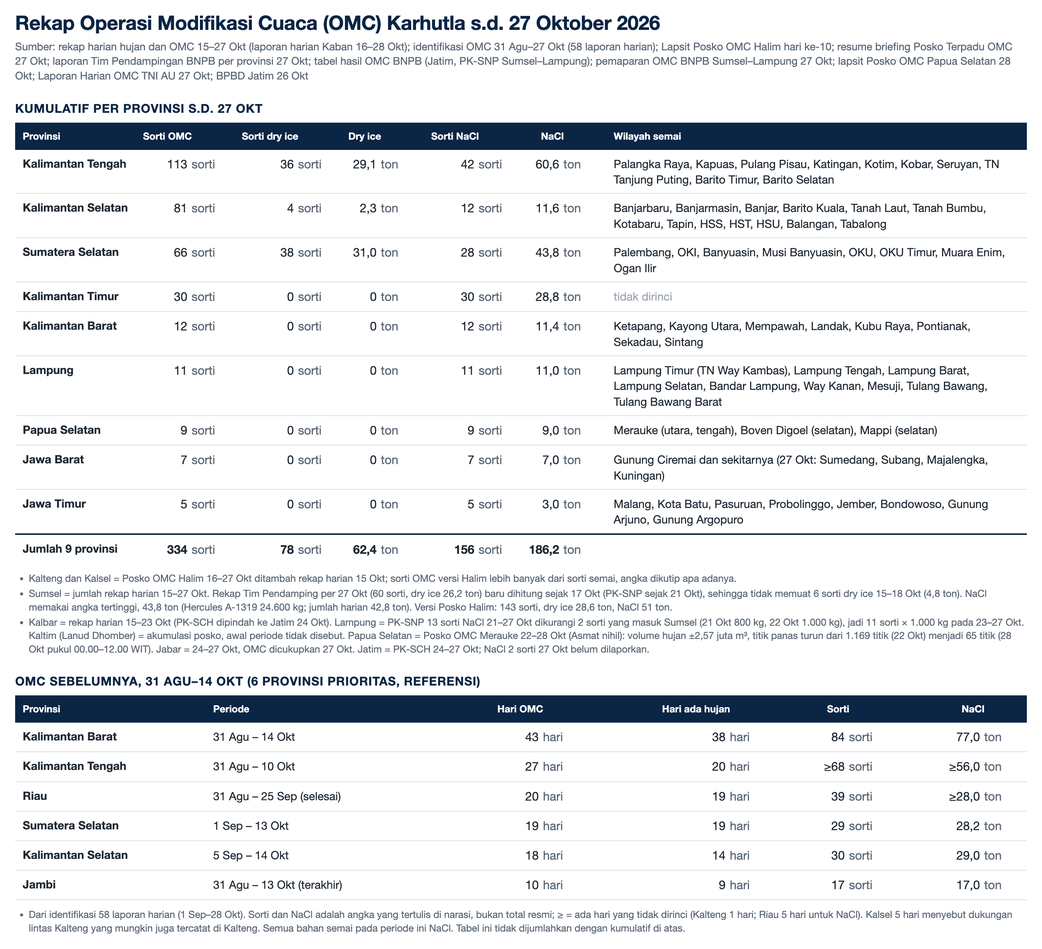
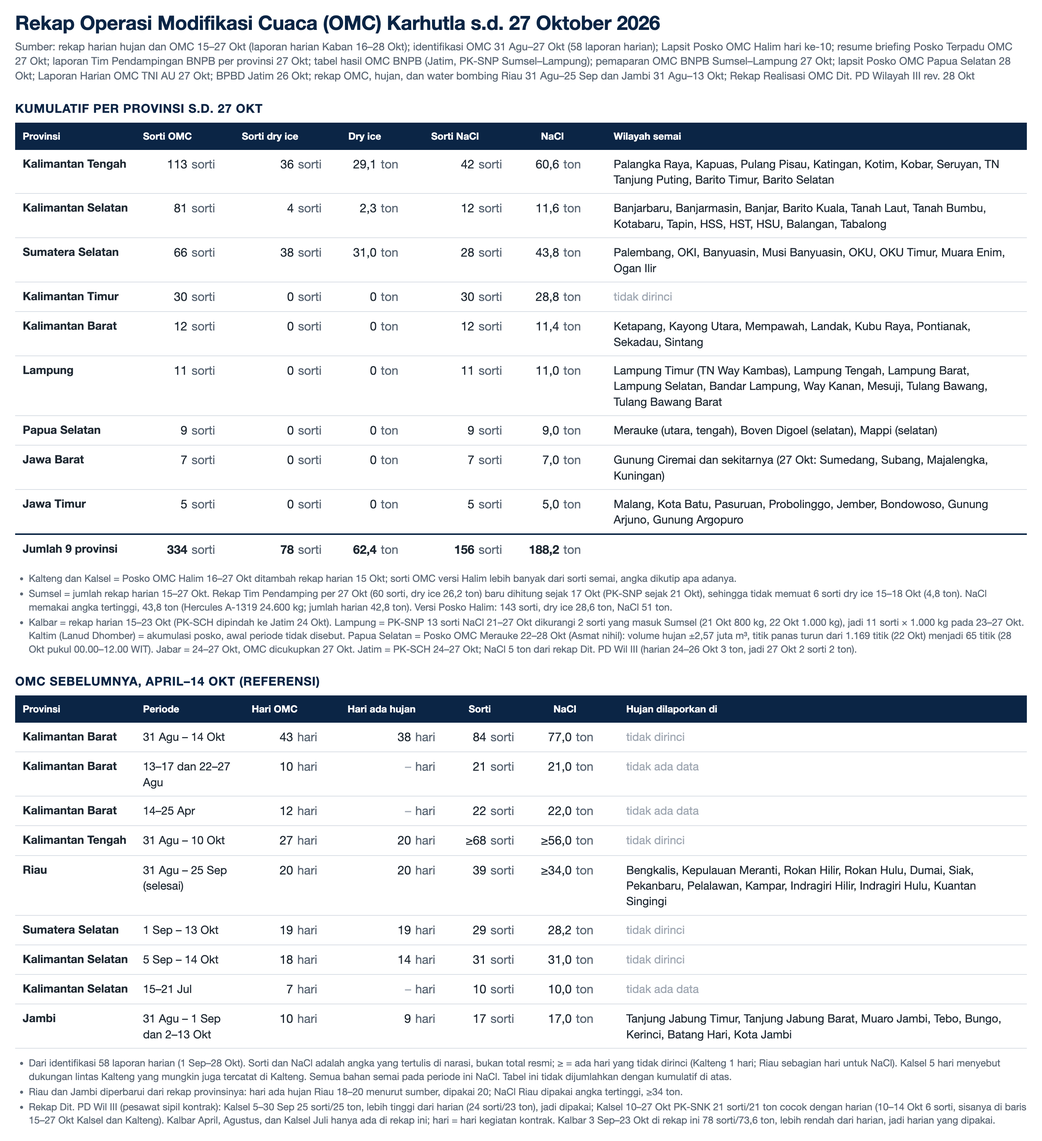
docs(omc): gabung rekap Riau, Jambi, dan PDW III ke tabel, gambar, dan teks WA

diff --git a/data/laporan-bnpb/omc-2026-10-28/tabel-omc.html b/data/laporan-bnpb/omc-2026-10-28/tabel-omc.html
@@ -41,7 +41,7 @@
 <body>
 <div class="kertas">
   <h1>Rekap Operasi Modifikasi Cuaca (OMC) Karhutla s.d. 27 Oktober 2026</h1>
-  <p class="sub">Sumber: rekap harian hujan dan OMC 15–27 Okt (laporan harian Kaban 16–28 Okt); identifikasi OMC 31 Agu–27 Okt (58 laporan harian); Lapsit Posko OMC Halim hari ke-10; resume briefing Posko Terpadu OMC 27 Okt; laporan Tim Pendampingan BNPB per provinsi 27 Okt; tabel hasil OMC BNPB (Jatim, PK-SNP Sumsel–Lampung); pemaparan OMC BNPB Sumsel–Lampung 27 Okt; lapsit Posko OMC Papua Selatan 28 Okt; Laporan Harian OMC TNI AU 27 Okt; BPBD Jatim 26 Okt</p>
+  <p class="sub">Sumber: rekap harian hujan dan OMC 15–27 Okt (laporan harian Kaban 16–28 Okt); identifikasi OMC 31 Agu–27 Okt (58 laporan harian); Lapsit Posko OMC Halim hari ke-10; resume briefing Posko Terpadu OMC 27 Okt; laporan Tim Pendampingan BNPB per provinsi 27 Okt; tabel hasil OMC BNPB (Jatim, PK-SNP Sumsel–Lampung); pemaparan OMC BNPB Sumsel–Lampung 27 Okt; lapsit Posko OMC Papua Selatan 28 Okt; Laporan Harian OMC TNI AU 27 Okt; BPBD Jatim 26 Okt; rekap OMC, hujan, dan water bombing Riau 31 Agu–25 Sep dan Jambi 31 Agu–13 Okt; Rekap Realisasi OMC Dit. PD Wilayah III rev. 28 Okt</p>
 
   <h2>Kumulatif per provinsi s.d. 27 Okt</h2>
   <table class="kumulatif">
@@ -57,32 +57,37 @@
       <tr><td class="prov">Lampung</td><td class="n so">11</td><td class="n so">0</td><td class="n t">0</td><td class="n so">11</td><td class="n t">11,0</td><td>Lampung Timur (TN Way Kambas), Lampung Tengah, Lampung Barat, Lampung Selatan, Bandar Lampung, Way Kanan, Mesuji, Tulang Bawang, Tulang Bawang Barat</td></tr>
       <tr><td class="prov">Papua Selatan</td><td class="n so">9</td><td class="n so">0</td><td class="n t">0</td><td class="n so">9</td><td class="n t">9,0</td><td>Merauke (utara, tengah), Boven Digoel (selatan), Mappi (selatan)</td></tr>
       <tr><td class="prov">Jawa Barat</td><td class="n so">7</td><td class="n so">0</td><td class="n t">0</td><td class="n so">7</td><td class="n t">7,0</td><td>Gunung Ciremai dan sekitarnya (27 Okt: Sumedang, Subang, Majalengka, Kuningan)</td></tr>
-      <tr><td class="prov">Jawa Timur</td><td class="n so">5</td><td class="n so">0</td><td class="n t">0</td><td class="n so">5</td><td class="n t">3,0</td><td>Malang, Kota Batu, Pasuruan, Probolinggo, Jember, Bondowoso, Gunung Arjuno, Gunung Argopuro</td></tr>
-      <tr class="jumlah"><td>Jumlah 9 provinsi</td><td class="n so">334</td><td class="n so">78</td><td class="n t">62,4</td><td class="n so">156</td><td class="n t">186,2</td><td></td></tr>
+      <tr><td class="prov">Jawa Timur</td><td class="n so">5</td><td class="n so">0</td><td class="n t">0</td><td class="n so">5</td><td class="n t">5,0</td><td>Malang, Kota Batu, Pasuruan, Probolinggo, Jember, Bondowoso, Gunung Arjuno, Gunung Argopuro</td></tr>
+      <tr class="jumlah"><td>Jumlah 9 provinsi</td><td class="n so">334</td><td class="n so">78</td><td class="n t">62,4</td><td class="n so">156</td><td class="n t">188,2</td><td></td></tr>
     </tbody>
   </table>
   <ul class="catatan">
     <li>Kalteng dan Kalsel = Posko OMC Halim 16–27 Okt ditambah rekap harian 15 Okt; sorti OMC versi Halim lebih banyak dari sorti semai, angka dikutip apa adanya.</li>
     <li>Sumsel = jumlah rekap harian 15–27 Okt. Rekap Tim Pendamping per 27 Okt (60 sorti, dry ice 26,2 ton) baru dihitung sejak 17 Okt (PK-SNP sejak 21 Okt), sehingga tidak memuat 6 sorti dry ice 15–18 Okt (4,8 ton). NaCl memakai angka tertinggi, 43,8 ton (Hercules A-1319 24.600 kg; jumlah harian 42,8 ton). Versi Posko Halim: 143 sorti, dry ice 28,6 ton, NaCl 51 ton.</li>
-    <li>Kalbar = rekap harian 15–23 Okt (PK-SCH dipindah ke Jatim 24 Okt). Lampung = PK-SNP 13 sorti NaCl 21–27 Okt dikurangi 2 sorti yang masuk Sumsel (21 Okt 800 kg, 22 Okt 1.000 kg), jadi 11 sorti × 1.000 kg pada 23–27 Okt. Kaltim (Lanud Dhomber) = akumulasi posko, awal periode tidak disebut. Papua Selatan = Posko OMC Merauke 22–28 Okt (Asmat nihil): volume hujan ±2,57 juta m³, titik panas turun dari 1.169 titik (22 Okt) menjadi 65 titik (28 Okt pukul 00.00–12.00 WIT). Jabar = 24–27 Okt, OMC dicukupkan 27 Okt. Jatim = PK-SCH 24–27 Okt; NaCl 2 sorti 27 Okt belum dilaporkan.</li>
+    <li>Kalbar = rekap harian 15–23 Okt (PK-SCH dipindah ke Jatim 24 Okt). Lampung = PK-SNP 13 sorti NaCl 21–27 Okt dikurangi 2 sorti yang masuk Sumsel (21 Okt 800 kg, 22 Okt 1.000 kg), jadi 11 sorti × 1.000 kg pada 23–27 Okt. Kaltim (Lanud Dhomber) = akumulasi posko, awal periode tidak disebut. Papua Selatan = Posko OMC Merauke 22–28 Okt (Asmat nihil): volume hujan ±2,57 juta m³, titik panas turun dari 1.169 titik (22 Okt) menjadi 65 titik (28 Okt pukul 00.00–12.00 WIT). Jabar = 24–27 Okt, OMC dicukupkan 27 Okt. Jatim = PK-SCH 24–27 Okt; NaCl 5 ton dari rekap Dit. PD Wil III (harian 24–26 Okt 3 ton, jadi 27 Okt 2 sorti 2 ton).</li>
   </ul>
 
-  <h2>OMC sebelumnya, 31 Agu–14 Okt (6 provinsi prioritas, referensi)</h2>
+  <h2>OMC sebelumnya, April–14 Okt (referensi)</h2>
   <table class="kumulatif">
     <thead>
-      <tr><th>Provinsi</th><th>Periode</th><th class="n">Hari OMC</th><th class="n">Hari ada hujan</th><th class="n">Sorti</th><th class="n">NaCl</th></tr>
+      <tr><th>Provinsi</th><th>Periode</th><th class="n">Hari OMC</th><th class="n">Hari ada hujan</th><th class="n">Sorti</th><th class="n">NaCl</th><th>Hujan dilaporkan di</th></tr>
     </thead>
     <tbody>
-      <tr><td class="prov">Kalimantan Barat</td><td>31 Agu – 14 Okt</td><td class="n hr">43</td><td class="n hr">38</td><td class="n so">84</td><td class="n t">77,0</td></tr>
-      <tr><td class="prov">Kalimantan Tengah</td><td>31 Agu – 10 Okt</td><td class="n hr">27</td><td class="n hr">20</td><td class="n so">≥68</td><td class="n t">≥56,0</td></tr>
-      <tr><td class="prov">Riau</td><td>31 Agu – 25 Sep (selesai)</td><td class="n hr">20</td><td class="n hr">19</td><td class="n so">39</td><td class="n t">≥28,0</td></tr>
-      <tr><td class="prov">Sumatera Selatan</td><td>1 Sep – 13 Okt</td><td class="n hr">19</td><td class="n hr">19</td><td class="n so">29</td><td class="n t">28,2</td></tr>
-      <tr><td class="prov">Kalimantan Selatan</td><td>5 Sep – 14 Okt</td><td class="n hr">18</td><td class="n hr">14</td><td class="n so">30</td><td class="n t">29,0</td></tr>
-      <tr><td class="prov">Jambi</td><td>31 Agu – 13 Okt (terakhir)</td><td class="n hr">10</td><td class="n hr">9</td><td class="n so">17</td><td class="n t">17,0</td></tr>
+      <tr><td class="prov">Kalimantan Barat</td><td>31 Agu – 14 Okt</td><td class="n hr">43</td><td class="n hr">38</td><td class="n so">84</td><td class="n t">77,0</td><td class="kosong">tidak dirinci</td></tr>
+      <tr><td class="prov">Kalimantan Barat</td><td>13–17 dan 22–27 Agu</td><td class="n hr">10</td><td class="n hr kosong">–</td><td class="n so">21</td><td class="n t">21,0</td><td class="kosong">tidak ada data</td></tr>
+      <tr><td class="prov">Kalimantan Barat</td><td>14–25 Apr</td><td class="n hr">12</td><td class="n hr kosong">–</td><td class="n so">22</td><td class="n t">22,0</td><td class="kosong">tidak ada data</td></tr>
+      <tr><td class="prov">Kalimantan Tengah</td><td>31 Agu – 10 Okt</td><td class="n hr">27</td><td class="n hr">20</td><td class="n so">≥68</td><td class="n t">≥56,0</td><td class="kosong">tidak dirinci</td></tr>
+      <tr><td class="prov">Riau</td><td>31 Agu – 25 Sep (selesai)</td><td class="n hr">20</td><td class="n hr">20</td><td class="n so">39</td><td class="n t">≥34,0</td><td>Bengkalis, Kepulauan Meranti, Rokan Hilir, Rokan Hulu, Dumai, Siak, Pekanbaru, Pelalawan, Kampar, Indragiri Hilir, Indragiri Hulu, Kuantan Singingi</td></tr>
+      <tr><td class="prov">Sumatera Selatan</td><td>1 Sep – 13 Okt</td><td class="n hr">19</td><td class="n hr">19</td><td class="n so">29</td><td class="n t">28,2</td><td class="kosong">tidak dirinci</td></tr>
+      <tr><td class="prov">Kalimantan Selatan</td><td>5 Sep – 14 Okt</td><td class="n hr">18</td><td class="n hr">14</td><td class="n so">31</td><td class="n t">31,0</td><td class="kosong">tidak dirinci</td></tr>
+      <tr><td class="prov">Kalimantan Selatan</td><td>15–21 Jul</td><td class="n hr">7</td><td class="n hr kosong">–</td><td class="n so">10</td><td class="n t">10,0</td><td class="kosong">tidak ada data</td></tr>
+      <tr><td class="prov">Jambi</td><td>31 Agu – 1 Sep dan 2–13 Okt</td><td class="n hr">10</td><td class="n hr">9</td><td class="n so">17</td><td class="n t">17,0</td><td>Tanjung Jabung Timur, Tanjung Jabung Barat, Muaro Jambi, Tebo, Bungo, Kerinci, Batang Hari, Kota Jambi</td></tr>
     </tbody>
   </table>
   <ul class="catatan">
-    <li>Dari identifikasi 58 laporan harian (1 Sep–28 Okt). Sorti dan NaCl adalah angka yang tertulis di narasi, bukan total resmi; ≥ = ada hari yang tidak dirinci (Kalteng 1 hari; Riau 5 hari untuk NaCl). Kalsel 5 hari menyebut dukungan lintas Kalteng yang mungkin juga tercatat di Kalteng. Semua bahan semai pada periode ini NaCl. Tabel ini tidak dijumlahkan dengan kumulatif di atas.</li>
+    <li>Dari identifikasi 58 laporan harian (1 Sep–28 Okt). Sorti dan NaCl adalah angka yang tertulis di narasi, bukan total resmi; ≥ = ada hari yang tidak dirinci (Kalteng 1 hari; Riau sebagian hari untuk NaCl). Kalsel 5 hari menyebut dukungan lintas Kalteng yang mungkin juga tercatat di Kalteng. Semua bahan semai pada periode ini NaCl. Tabel ini tidak dijumlahkan dengan kumulatif di atas.</li>
+    <li>Riau dan Jambi diperbarui dari rekap provinsinya: hari ada hujan Riau 18–20 menurut sumber, dipakai 20; NaCl Riau dipakai angka tertinggi, ≥34 ton.</li>
+    <li>Rekap Dit. PD Wil III (pesawat sipil kontrak): Kalsel 5–30 Sep 25 sorti/25 ton, lebih tinggi dari harian (24 sorti/23 ton), jadi dipakai; Kalsel 10–27 Okt PK-SNK 21 sorti/21 ton cocok dengan harian (10–14 Okt 6 sorti, sisanya di baris 15–27 Okt Kalsel dan Kalteng). Kalbar April, Agustus, dan Kalsel Juli hanya ada di rekap ini; hari = hari kegiatan kontrak. Kalbar 3 Sep–23 Okt di rekap ini 78 sorti/73,6 ton, lebih rendah dari harian, jadi harian yang dipakai.</li>
   </ul>
 
   <h2>Rincian harian 15–27 Okt</h2>
@@ -184,7 +189,7 @@
       <tr><td class="tgl" rowspan="6">27 Okt</td><td class="prov">Sumsel</td><td class="n so">8</td><td class="n kg">1.700</td><td class="n kg">9.200</td><td>dry ice: timur–tenggara Palembang; NaCl: OKI, Banyuasin, Musi Banyuasin, OKU, Muara Enim, Ogan Ilir</td><td><span class="pil h">HUJAN</span>sedang–lebat di OKI dan OKU Timur; ringan–sedang di Cengal dan Pangkalan Jerambah (OKI), Pusat Konservasi Gajah (Banyuasin). Penakar BMKG 07.01–16.00 WIB: Pangkalan Lampam (OKI) 36 mm, Pagar Alam 7,4 mm, Banyuasin I 4 mm. PM2,5 Palembang 115 → 68,8 µg/m³, jarak pandang membaik hingga 7 km</td></tr>
       <tr><td class="prov">Kalteng–Kalsel</td><td class="n so">12</td><td class="n kg">2.100</td><td class="n kg">13.200</td><td>dry ice: Banjarbaru, Banjarmasin, Palangka Raya; NaCl: Katingan, Kotim, Kobar, Seruyan (TN Tanjung Puting), Kapuas, Pulang Pisau, Palangka Raya, Barito Kuala, Tanah Laut, Tanah Bumbu, Kotabaru, Banjar, HSS, HST, HSU, Balangan, Tabalong</td><td><span class="pil h">HUJAN</span>ringan–lebat (radar) di Katingan, Palangka Raya, Pulang Pisau, Kotim, Kapuas; ringan–sedang di Gunung Mas, Seruyan; hujan juga di Kobar, Sukamara, Murung Raya, Barito Utara; ringan–sedang di Kotabaru, Tanah Bumbu, Banjarmasin, Banjarbaru, Barito Kuala, Tanah Laut, Banjar, Tapin, HSS, HST, HSU, Tabalong, Balangan. PM2,5 Banjarbaru turun 14,6% saat semai dry ice, jarak pandang Syamsudin Noor 1,5 → 5 km</td></tr>
       <tr><td class="prov">Jabar</td><td class="n so">1</td><td class="n kg">0</td><td class="n kg">1.000</td><td>Sumedang, Subang, Majalengka, Kuningan, Gunung Ciremai</td><td><span class="pil h">HUJAN</span>ringan–sedang di Gunung Ciremai; radar BMKG: ringan–sangat lebat di hampir seluruh Jabar. OMC dicukupkan</td></tr>
-      <tr><td class="prov">Jatim</td><td class="n so">2</td><td class="n kg">0</td><td class="n kg kosong">–</td><td>Bondowoso, Jember, Gunung Argopuro; Kota Malang, Kab. Malang, Kota Batu, Gunung Arjuno</td><td><span class="pil h">HUJAN</span>ringan–sedang di Jombang, Bondowoso, Mojokerto, Jember, Madiun, Nganjuk, Tuban, Bojonegoro, Malang, timur Pulau Madura; Surabaya pada malam hari</td></tr>
+      <tr><td class="prov">Jatim</td><td class="n so">2</td><td class="n kg">0</td><td class="n kg">2.000</td><td>Bondowoso, Jember, Gunung Argopuro; Kota Malang, Kab. Malang, Kota Batu, Gunung Arjuno</td><td><span class="pil h">HUJAN</span>ringan–sedang di Jombang, Bondowoso, Mojokerto, Jember, Madiun, Nganjuk, Tuban, Bojonegoro, Malang, timur Pulau Madura; Surabaya pada malam hari</td></tr>
       <tr><td class="prov">Lampung</td><td class="n so">2</td><td class="n kg">0</td><td class="n kg">2.000</td><td>Lampung Timur, TN Way Kambas, Lampung Selatan; Mesuji, Tulang Bawang, Tulang Bawang Barat, Lampung Tengah</td><td><span class="pil h">HUJAN</span>ringan di Lampung Selatan, Lampung Timur, Tulang Bawang Barat, Lampung Tengah</td></tr>
       <tr><td class="prov">Papua Selatan</td><td class="n so">2</td><td class="n kg">0</td><td class="n kg">2.000</td><td>Merauke, Mappi (sorti ke-2 penyemaian malam: Merauke)</td><td><span class="pil h">HUJAN</span>di utara Merauke mulai 17.00 WIT, meluas ke Boven Digoel dan Mappi, 2–3 jam setelah penyemaian</td></tr>
     </tbody>

diff --git a/data/laporan-bnpb/omc-2026-10-28/bagian-1.html b/data/laporan-bnpb/omc-2026-10-28/bagian-1.html
@@ -41,7 +41,7 @@
 <body>
 <div class="kertas">
   <h1>Rekap Operasi Modifikasi Cuaca (OMC) Karhutla s.d. 27 Oktober 2026</h1>
-  <p class="sub">Sumber: rekap harian hujan dan OMC 15–27 Okt (laporan harian Kaban 16–28 Okt); identifikasi OMC 31 Agu–27 Okt (58 laporan harian); Lapsit Posko OMC Halim hari ke-10; resume briefing Posko Terpadu OMC 27 Okt; laporan Tim Pendampingan BNPB per provinsi 27 Okt; tabel hasil OMC BNPB (Jatim, PK-SNP Sumsel–Lampung); pemaparan OMC BNPB Sumsel–Lampung 27 Okt; lapsit Posko OMC Papua Selatan 28 Okt; Laporan Harian OMC TNI AU 27 Okt; BPBD Jatim 26 Okt</p>
+  <p class="sub">Sumber: rekap harian hujan dan OMC 15–27 Okt (laporan harian Kaban 16–28 Okt); identifikasi OMC 31 Agu–27 Okt (58 laporan harian); Lapsit Posko OMC Halim hari ke-10; resume briefing Posko Terpadu OMC 27 Okt; laporan Tim Pendampingan BNPB per provinsi 27 Okt; tabel hasil OMC BNPB (Jatim, PK-SNP Sumsel–Lampung); pemaparan OMC BNPB Sumsel–Lampung 27 Okt; lapsit Posko OMC Papua Selatan 28 Okt; Laporan Harian OMC TNI AU 27 Okt; BPBD Jatim 26 Okt; rekap OMC, hujan, dan water bombing Riau 31 Agu–25 Sep dan Jambi 31 Agu–13 Okt; Rekap Realisasi OMC Dit. PD Wilayah III rev. 28 Okt</p>
 
   <h2>Kumulatif per provinsi s.d. 27 Okt</h2>
   <table class="kumulatif">
@@ -57,32 +57,37 @@
       <tr><td class="prov">Lampung</td><td class="n so">11</td><td class="n so">0</td><td class="n t">0</td><td class="n so">11</td><td class="n t">11,0</td><td>Lampung Timur (TN Way Kambas), Lampung Tengah, Lampung Barat, Lampung Selatan, Bandar Lampung, Way Kanan, Mesuji, Tulang Bawang, Tulang Bawang Barat</td></tr>
       <tr><td class="prov">Papua Selatan</td><td class="n so">9</td><td class="n so">0</td><td class="n t">0</td><td class="n so">9</td><td class="n t">9,0</td><td>Merauke (utara, tengah), Boven Digoel (selatan), Mappi (selatan)</td></tr>
       <tr><td class="prov">Jawa Barat</td><td class="n so">7</td><td class="n so">0</td><td class="n t">0</td><td class="n so">7</td><td class="n t">7,0</td><td>Gunung Ciremai dan sekitarnya (27 Okt: Sumedang, Subang, Majalengka, Kuningan)</td></tr>
-      <tr><td class="prov">Jawa Timur</td><td class="n so">5</td><td class="n so">0</td><td class="n t">0</td><td class="n so">5</td><td class="n t">3,0</td><td>Malang, Kota Batu, Pasuruan, Probolinggo, Jember, Bondowoso, Gunung Arjuno, Gunung Argopuro</td></tr>
-      <tr class="jumlah"><td>Jumlah 9 provinsi</td><td class="n so">334</td><td class="n so">78</td><td class="n t">62,4</td><td class="n so">156</td><td class="n t">186,2</td><td></td></tr>
+      <tr><td class="prov">Jawa Timur</td><td class="n so">5</td><td class="n so">0</td><td class="n t">0</td><td class="n so">5</td><td class="n t">5,0</td><td>Malang, Kota Batu, Pasuruan, Probolinggo, Jember, Bondowoso, Gunung Arjuno, Gunung Argopuro</td></tr>
+      <tr class="jumlah"><td>Jumlah 9 provinsi</td><td class="n so">334</td><td class="n so">78</td><td class="n t">62,4</td><td class="n so">156</td><td class="n t">188,2</td><td></td></tr>
     </tbody>
   </table>
   <ul class="catatan">
     <li>Kalteng dan Kalsel = Posko OMC Halim 16–27 Okt ditambah rekap harian 15 Okt; sorti OMC versi Halim lebih banyak dari sorti semai, angka dikutip apa adanya.</li>
     <li>Sumsel = jumlah rekap harian 15–27 Okt. Rekap Tim Pendamping per 27 Okt (60 sorti, dry ice 26,2 ton) baru dihitung sejak 17 Okt (PK-SNP sejak 21 Okt), sehingga tidak memuat 6 sorti dry ice 15–18 Okt (4,8 ton). NaCl memakai angka tertinggi, 43,8 ton (Hercules A-1319 24.600 kg; jumlah harian 42,8 ton). Versi Posko Halim: 143 sorti, dry ice 28,6 ton, NaCl 51 ton.</li>
-    <li>Kalbar = rekap harian 15–23 Okt (PK-SCH dipindah ke Jatim 24 Okt). Lampung = PK-SNP 13 sorti NaCl 21–27 Okt dikurangi 2 sorti yang masuk Sumsel (21 Okt 800 kg, 22 Okt 1.000 kg), jadi 11 sorti × 1.000 kg pada 23–27 Okt. Kaltim (Lanud Dhomber) = akumulasi posko, awal periode tidak disebut. Papua Selatan = Posko OMC Merauke 22–28 Okt (Asmat nihil): volume hujan ±2,57 juta m³, titik panas turun dari 1.169 titik (22 Okt) menjadi 65 titik (28 Okt pukul 00.00–12.00 WIT). Jabar = 24–27 Okt, OMC dicukupkan 27 Okt. Jatim = PK-SCH 24–27 Okt; NaCl 2 sorti 27 Okt belum dilaporkan.</li>
+    <li>Kalbar = rekap harian 15–23 Okt (PK-SCH dipindah ke Jatim 24 Okt). Lampung = PK-SNP 13 sorti NaCl 21–27 Okt dikurangi 2 sorti yang masuk Sumsel (21 Okt 800 kg, 22 Okt 1.000 kg), jadi 11 sorti × 1.000 kg pada 23–27 Okt. Kaltim (Lanud Dhomber) = akumulasi posko, awal periode tidak disebut. Papua Selatan = Posko OMC Merauke 22–28 Okt (Asmat nihil): volume hujan ±2,57 juta m³, titik panas turun dari 1.169 titik (22 Okt) menjadi 65 titik (28 Okt pukul 00.00–12.00 WIT). Jabar = 24–27 Okt, OMC dicukupkan 27 Okt. Jatim = PK-SCH 24–27 Okt; NaCl 5 ton dari rekap Dit. PD Wil III (harian 24–26 Okt 3 ton, jadi 27 Okt 2 sorti 2 ton).</li>
   </ul>
 
-  <h2>OMC sebelumnya, 31 Agu–14 Okt (6 provinsi prioritas, referensi)</h2>
+  <h2>OMC sebelumnya, April–14 Okt (referensi)</h2>
   <table class="kumulatif">
     <thead>
-      <tr><th>Provinsi</th><th>Periode</th><th class="n">Hari OMC</th><th class="n">Hari ada hujan</th><th class="n">Sorti</th><th class="n">NaCl</th></tr>
+      <tr><th>Provinsi</th><th>Periode</th><th class="n">Hari OMC</th><th class="n">Hari ada hujan</th><th class="n">Sorti</th><th class="n">NaCl</th><th>Hujan dilaporkan di</th></tr>
     </thead>
     <tbody>
-      <tr><td class="prov">Kalimantan Barat</td><td>31 Agu – 14 Okt</td><td class="n hr">43</td><td class="n hr">38</td><td class="n so">84</td><td class="n t">77,0</td></tr>
-      <tr><td class="prov">Kalimantan Tengah</td><td>31 Agu – 10 Okt</td><td class="n hr">27</td><td class="n hr">20</td><td class="n so">≥68</td><td class="n t">≥56,0</td></tr>
-      <tr><td class="prov">Riau</td><td>31 Agu – 25 Sep (selesai)</td><td class="n hr">20</td><td class="n hr">19</td><td class="n so">39</td><td class="n t">≥28,0</td></tr>
-      <tr><td class="prov">Sumatera Selatan</td><td>1 Sep – 13 Okt</td><td class="n hr">19</td><td class="n hr">19</td><td class="n so">29</td><td class="n t">28,2</td></tr>
-      <tr><td class="prov">Kalimantan Selatan</td><td>5 Sep – 14 Okt</td><td class="n hr">18</td><td class="n hr">14</td><td class="n so">30</td><td class="n t">29,0</td></tr>
-      <tr><td class="prov">Jambi</td><td>31 Agu – 13 Okt (terakhir)</td><td class="n hr">10</td><td class="n hr">9</td><td class="n so">17</td><td class="n t">17,0</td></tr>
+      <tr><td class="prov">Kalimantan Barat</td><td>31 Agu – 14 Okt</td><td class="n hr">43</td><td class="n hr">38</td><td class="n so">84</td><td class="n t">77,0</td><td class="kosong">tidak dirinci</td></tr>
+      <tr><td class="prov">Kalimantan Barat</td><td>13–17 dan 22–27 Agu</td><td class="n hr">10</td><td class="n hr kosong">–</td><td class="n so">21</td><td class="n t">21,0</td><td class="kosong">tidak ada data</td></tr>
+      <tr><td class="prov">Kalimantan Barat</td><td>14–25 Apr</td><td class="n hr">12</td><td class="n hr kosong">–</td><td class="n so">22</td><td class="n t">22,0</td><td class="kosong">tidak ada data</td></tr>
+      <tr><td class="prov">Kalimantan Tengah</td><td>31 Agu – 10 Okt</td><td class="n hr">27</td><td class="n hr">20</td><td class="n so">≥68</td><td class="n t">≥56,0</td><td class="kosong">tidak dirinci</td></tr>
+      <tr><td class="prov">Riau</td><td>31 Agu – 25 Sep (selesai)</td><td class="n hr">20</td><td class="n hr">20</td><td class="n so">39</td><td class="n t">≥34,0</td><td>Bengkalis, Kepulauan Meranti, Rokan Hilir, Rokan Hulu, Dumai, Siak, Pekanbaru, Pelalawan, Kampar, Indragiri Hilir, Indragiri Hulu, Kuantan Singingi</td></tr>
+      <tr><td class="prov">Sumatera Selatan</td><td>1 Sep – 13 Okt</td><td class="n hr">19</td><td class="n hr">19</td><td class="n so">29</td><td class="n t">28,2</td><td class="kosong">tidak dirinci</td></tr>
+      <tr><td class="prov">Kalimantan Selatan</td><td>5 Sep – 14 Okt</td><td class="n hr">18</td><td class="n hr">14</td><td class="n so">31</td><td class="n t">31,0</td><td class="kosong">tidak dirinci</td></tr>
+      <tr><td class="prov">Kalimantan Selatan</td><td>15–21 Jul</td><td class="n hr">7</td><td class="n hr kosong">–</td><td class="n so">10</td><td class="n t">10,0</td><td class="kosong">tidak ada data</td></tr>
+      <tr><td class="prov">Jambi</td><td>31 Agu – 1 Sep dan 2–13 Okt</td><td class="n hr">10</td><td class="n hr">9</td><td class="n so">17</td><td class="n t">17,0</td><td>Tanjung Jabung Timur, Tanjung Jabung Barat, Muaro Jambi, Tebo, Bungo, Kerinci, Batang Hari, Kota Jambi</td></tr>
     </tbody>
   </table>
   <ul class="catatan">
-    <li>Dari identifikasi 58 laporan harian (1 Sep–28 Okt). Sorti dan NaCl adalah angka yang tertulis di narasi, bukan total resmi; ≥ = ada hari yang tidak dirinci (Kalteng 1 hari; Riau 5 hari untuk NaCl). Kalsel 5 hari menyebut dukungan lintas Kalteng yang mungkin juga tercatat di Kalteng. Semua bahan semai pada periode ini NaCl. Tabel ini tidak dijumlahkan dengan kumulatif di atas.</li>
+    <li>Dari identifikasi 58 laporan harian (1 Sep–28 Okt). Sorti dan NaCl adalah angka yang tertulis di narasi, bukan total resmi; ≥ = ada hari yang tidak dirinci (Kalteng 1 hari; Riau sebagian hari untuk NaCl). Kalsel 5 hari menyebut dukungan lintas Kalteng yang mungkin juga tercatat di Kalteng. Semua bahan semai pada periode ini NaCl. Tabel ini tidak dijumlahkan dengan kumulatif di atas.</li>
+    <li>Riau dan Jambi diperbarui dari rekap provinsinya: hari ada hujan Riau 18–20 menurut sumber, dipakai 20; NaCl Riau dipakai angka tertinggi, ≥34 ton.</li>
+    <li>Rekap Dit. PD Wil III (pesawat sipil kontrak): Kalsel 5–30 Sep 25 sorti/25 ton, lebih tinggi dari harian (24 sorti/23 ton), jadi dipakai; Kalsel 10–27 Okt PK-SNK 21 sorti/21 ton cocok dengan harian (10–14 Okt 6 sorti, sisanya di baris 15–27 Okt Kalsel dan Kalteng). Kalbar April, Agustus, dan Kalsel Juli hanya ada di rekap ini; hari = hari kegiatan kontrak. Kalbar 3 Sep–23 Okt di rekap ini 78 sorti/73,6 ton, lebih rendah dari harian, jadi harian yang dipakai.</li>
   </ul>
 
 </div>

diff --git a/data/laporan-bnpb/omc-2026-10-28/bagian-3.html b/data/laporan-bnpb/omc-2026-10-28/bagian-3.html
@@ -41,7 +41,7 @@
 <body>
 <div class="kertas">
   <h1>Rincian Harian OMC Karhutla 22–27 Oktober 2026</h1>
-  <p class="sub">Sumber: rekap harian hujan dan OMC 15–27 Okt (laporan harian Kaban 16–28 Okt); identifikasi OMC 31 Agu–27 Okt (58 laporan harian); Lapsit Posko OMC Halim hari ke-10; resume briefing Posko Terpadu OMC 27 Okt; laporan Tim Pendampingan BNPB per provinsi 27 Okt; tabel hasil OMC BNPB (Jatim, PK-SNP Sumsel–Lampung); pemaparan OMC BNPB Sumsel–Lampung 27 Okt; lapsit Posko OMC Papua Selatan 28 Okt; Laporan Harian OMC TNI AU 27 Okt; BPBD Jatim 26 Okt</p>
+  <p class="sub">Sumber: rekap harian hujan dan OMC 15–27 Okt (laporan harian Kaban 16–28 Okt); identifikasi OMC 31 Agu–27 Okt (58 laporan harian); Lapsit Posko OMC Halim hari ke-10; resume briefing Posko Terpadu OMC 27 Okt; laporan Tim Pendampingan BNPB per provinsi 27 Okt; tabel hasil OMC BNPB (Jatim, PK-SNP Sumsel–Lampung); pemaparan OMC BNPB Sumsel–Lampung 27 Okt; lapsit Posko OMC Papua Selatan 28 Okt; Laporan Harian OMC TNI AU 27 Okt; BPBD Jatim 26 Okt; rekap OMC, hujan, dan water bombing Riau 31 Agu–25 Sep dan Jambi 31 Agu–13 Okt; Rekap Realisasi OMC Dit. PD Wilayah III rev. 28 Okt</p>
 
   <h2>Rincian harian 22–27 Okt</h2>
   <table>
@@ -94,7 +94,7 @@
       <tr><td class="tgl" rowspan="6">27 Okt</td><td class="prov">Sumsel</td><td class="n so">8</td><td class="n kg">1.700</td><td class="n kg">9.200</td><td>dry ice: timur–tenggara Palembang; NaCl: OKI, Banyuasin, Musi Banyuasin, OKU, Muara Enim, Ogan Ilir</td><td><span class="pil h">HUJAN</span>sedang–lebat di OKI dan OKU Timur; ringan–sedang di Cengal dan Pangkalan Jerambah (OKI), Pusat Konservasi Gajah (Banyuasin). Penakar BMKG 07.01–16.00 WIB: Pangkalan Lampam (OKI) 36 mm, Pagar Alam 7,4 mm, Banyuasin I 4 mm. PM2,5 Palembang 115 → 68,8 µg/m³, jarak pandang membaik hingga 7 km</td></tr>
       <tr><td class="prov">Kalteng–Kalsel</td><td class="n so">12</td><td class="n kg">2.100</td><td class="n kg">13.200</td><td>dry ice: Banjarbaru, Banjarmasin, Palangka Raya; NaCl: Katingan, Kotim, Kobar, Seruyan (TN Tanjung Puting), Kapuas, Pulang Pisau, Palangka Raya, Barito Kuala, Tanah Laut, Tanah Bumbu, Kotabaru, Banjar, HSS, HST, HSU, Balangan, Tabalong</td><td><span class="pil h">HUJAN</span>ringan–lebat (radar) di Katingan, Palangka Raya, Pulang Pisau, Kotim, Kapuas; ringan–sedang di Gunung Mas, Seruyan; hujan juga di Kobar, Sukamara, Murung Raya, Barito Utara; ringan–sedang di Kotabaru, Tanah Bumbu, Banjarmasin, Banjarbaru, Barito Kuala, Tanah Laut, Banjar, Tapin, HSS, HST, HSU, Tabalong, Balangan. PM2,5 Banjarbaru turun 14,6% saat semai dry ice, jarak pandang Syamsudin Noor 1,5 → 5 km</td></tr>
       <tr><td class="prov">Jabar</td><td class="n so">1</td><td class="n kg">0</td><td class="n kg">1.000</td><td>Sumedang, Subang, Majalengka, Kuningan, Gunung Ciremai</td><td><span class="pil h">HUJAN</span>ringan–sedang di Gunung Ciremai; radar BMKG: ringan–sangat lebat di hampir seluruh Jabar. OMC dicukupkan</td></tr>
-      <tr><td class="prov">Jatim</td><td class="n so">2</td><td class="n kg">0</td><td class="n kg kosong">–</td><td>Bondowoso, Jember, Gunung Argopuro; Kota Malang, Kab. Malang, Kota Batu, Gunung Arjuno</td><td><span class="pil h">HUJAN</span>ringan–sedang di Jombang, Bondowoso, Mojokerto, Jember, Madiun, Nganjuk, Tuban, Bojonegoro, Malang, timur Pulau Madura; Surabaya pada malam hari</td></tr>
+      <tr><td class="prov">Jatim</td><td class="n so">2</td><td class="n kg">0</td><td class="n kg">2.000</td><td>Bondowoso, Jember, Gunung Argopuro; Kota Malang, Kab. Malang, Kota Batu, Gunung Arjuno</td><td><span class="pil h">HUJAN</span>ringan–sedang di Jombang, Bondowoso, Mojokerto, Jember, Madiun, Nganjuk, Tuban, Bojonegoro, Malang, timur Pulau Madura; Surabaya pada malam hari</td></tr>
       <tr><td class="prov">Lampung</td><td class="n so">2</td><td class="n kg">0</td><td class="n kg">2.000</td><td>Lampung Timur, TN Way Kambas, Lampung Selatan; Mesuji, Tulang Bawang, Tulang Bawang Barat, Lampung Tengah</td><td><span class="pil h">HUJAN</span>ringan di Lampung Selatan, Lampung Timur, Tulang Bawang Barat, Lampung Tengah</td></tr>
       <tr><td class="prov">Papua Selatan</td><td class="n so">2</td><td class="n kg">0</td><td class="n kg">2.000</td><td>Merauke, Mappi (sorti ke-2 penyemaian malam: Merauke)</td><td><span class="pil h">HUJAN</span>di utara Merauke mulai 17.00 WIT, meluas ke Boven Digoel dan Mappi, 2–3 jam setelah penyemaian</td></tr>
     </tbody>

diff --git a/data/laporan-bnpb/omc-2026-10-28/bagian-2.html b/data/laporan-bnpb/omc-2026-10-28/bagian-2.html
@@ -41,7 +41,7 @@
 <body>
 <div class="kertas">
   <h1>Rincian Harian OMC Karhutla 15–21 Oktober 2026</h1>
-  <p class="sub">Sumber: rekap harian hujan dan OMC 15–27 Okt (laporan harian Kaban 16–28 Okt); identifikasi OMC 31 Agu–27 Okt (58 laporan harian); Lapsit Posko OMC Halim hari ke-10; resume briefing Posko Terpadu OMC 27 Okt; laporan Tim Pendampingan BNPB per provinsi 27 Okt; tabel hasil OMC BNPB (Jatim, PK-SNP Sumsel–Lampung); pemaparan OMC BNPB Sumsel–Lampung 27 Okt; lapsit Posko OMC Papua Selatan 28 Okt; Laporan Harian OMC TNI AU 27 Okt; BPBD Jatim 26 Okt</p>
+  <p class="sub">Sumber: rekap harian hujan dan OMC 15–27 Okt (laporan harian Kaban 16–28 Okt); identifikasi OMC 31 Agu–27 Okt (58 laporan harian); Lapsit Posko OMC Halim hari ke-10; resume briefing Posko Terpadu OMC 27 Okt; laporan Tim Pendampingan BNPB per provinsi 27 Okt; tabel hasil OMC BNPB (Jatim, PK-SNP Sumsel–Lampung); pemaparan OMC BNPB Sumsel–Lampung 27 Okt; lapsit Posko OMC Papua Selatan 28 Okt; Laporan Harian OMC TNI AU 27 Okt; BPBD Jatim 26 Okt; rekap OMC, hujan, dan water bombing Riau 31 Agu–25 Sep dan Jambi 31 Agu–13 Okt; Rekap Realisasi OMC Dit. PD Wilayah III rev. 28 Okt</p>
 
   <h2>Rincian harian 15–21 Okt</h2>
   <table>
@@ -96,7 +96,6 @@
       <tr><td class="prov">Sumsel</td><td class="n so">6</td><td class="n kg">4.000</td><td class="n kg">800</td><td>dry ice: Palembang; NaCl (PK-SNP): Palembang, Banyuasin</td><td><span class="pil h">HUJAN</span>ringan di Musi Banyuasin setelah sorti NaCl sore; jarak pandang Palembang 200 m → 2,5 km</td></tr>
       <tr><td class="prov">Kalsel</td><td class="n so">1</td><td class="n kg">0</td><td class="n kg">1.000</td><td>Kotabaru, Tanah Bumbu, Banjar, Barito Kuala (sorti Tabalong di baris Kalteng)</td><td><span class="pil b">BELUM HUJAN</span></td></tr>
     </tbody>
-
   </table>
 </div>
 </body>
